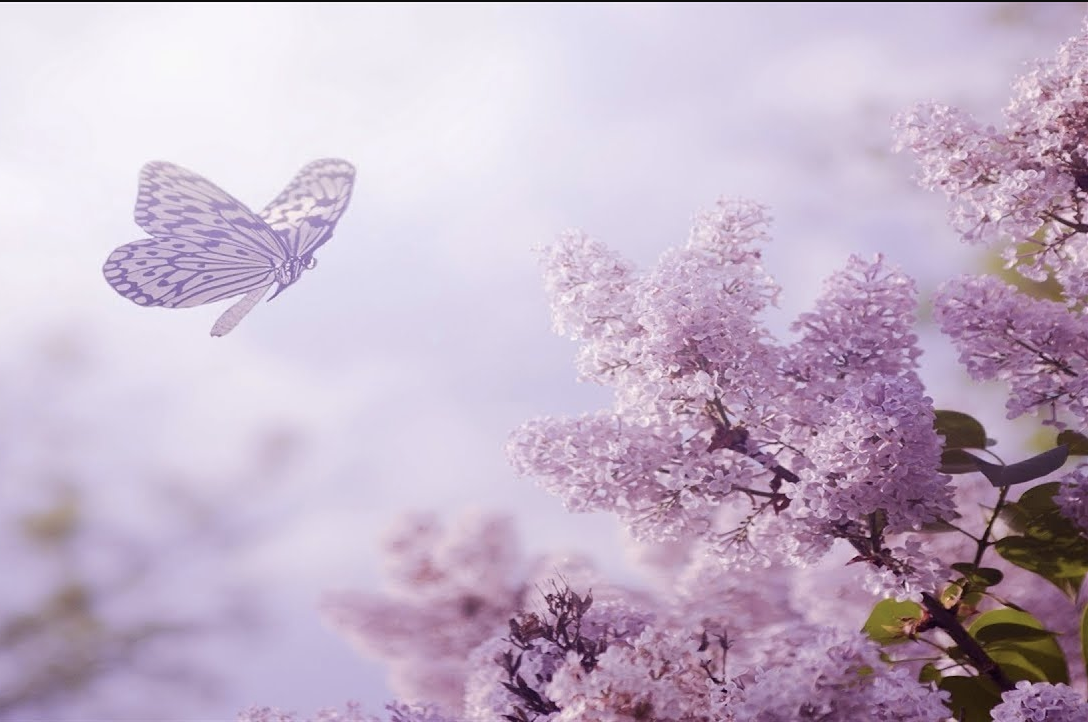
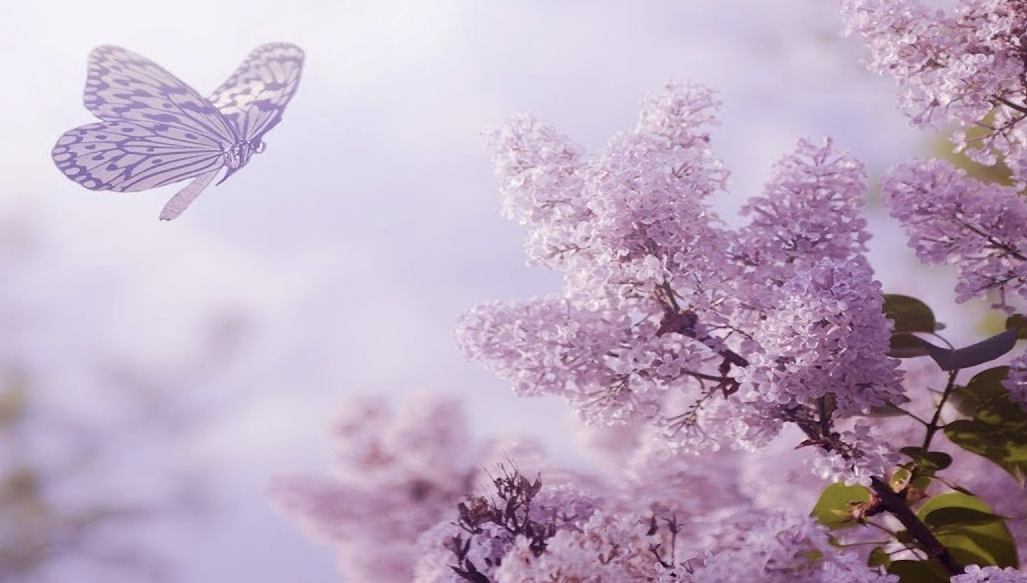
fix margin and picture

diff --git a/index.html b/index.html
@@ -5,6 +5,8 @@
     <title>You are my valentine</title>
     <meta name="description" content="Valentine">
     <meta name="keywords" content="valentine">
+    <link rel="preconnect" href="https://fonts.gstatic.com">
+    <link href="https://fonts.googleapis.com/css2?family=Montserrat&display=swap" rel="stylesheet">
 </head>
 
 <body style="background:
@@ -20,10 +22,18 @@ radial-gradient(circle closest-side at 40% 22%, #d35 45%, rgba(221,51,85,0.3) 46
 radial-gradient(circle closest-side at 60% 22%, #d35 45%, rgba(221,51,85,0.3) 46%) 50px 50px,
 radial-gradient(circle closest-side at 50% 35%, #d35 30%, rgba(221,51,85,0.3) 31%) 50px 50px;
 background-color:rgba(211, 129, 195, 0.187);
-background-size:100px 100px; padding-bottom: 2.33em">
-    <div style="display:flex; flex-direction: column; justify-content: center; align-items: center;">
-        <h6 style="font-size: 2.5em; color: rgb(247, 147, 240);">To My Love of My Life Erik</h6>
-        <img src="vcoupon.png" width="70%"><img>
+background-size:100px 100px; padding-bottom: 2.33em; ">
+    <div style="display:flex; flex-direction: column; justify-content: center; align-items: center; width: 70%; margin: auto;">
+        <h6 style="font-size: 2.5em; color: rgb(247, 147, 240); font-family: Montserrat, sans-serif; font-weight: bolder;">To My Love of My Life Erik</h6>
+        <img src="vcoupon.png " width="70% "><img>
+    </div>
+
+    <div style="display:flex; flex-direction: column; justify-content: center; align-items: center; margin-top: 60px;">
+        <div style="display:flex; flex-direction: column; justify-content: center; align-items: center;border: 1px solid lightpink; border-radius: 10px; background-image: url(background.png); width: 50%; padding-bottom: 1em">
+            <h6 style="font-size: 2em; margin-bottom: 25px">This coupon is redemable on:</h6>
+            <p style="font-size: 1.75em; ">February 14th, 2021</p>
+        </div>
+
     </div>
 </body>
 
